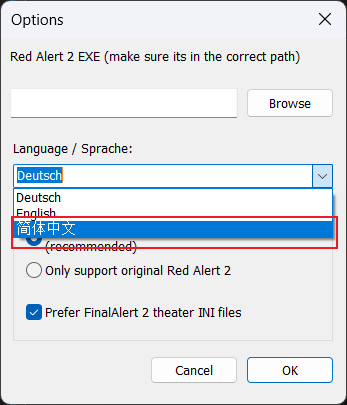
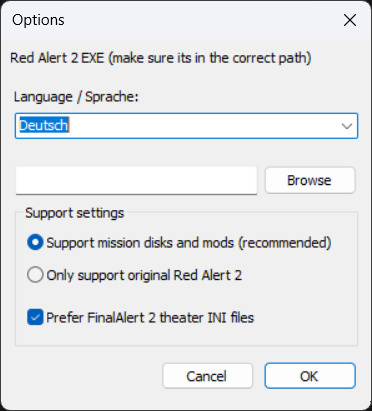
docs: update readme.md and "option" example img

diff --git a/README.md b/README.md
@@ -14,9 +14,10 @@
 ## 下载和安装
 1. 访问本仓库[Releases页面](https://github.com/revengenowstudio/YR_RN_Mission_Editor/releases/latest)即可获得最新发布版本
 2. 确保已经安装[VC++14 运行时库](https://learn.microsoft.com/zh-cn/cpp/windows/latest-supported-vc-redist?view=msvc-170#latest-supported-redistributable-version)
-3. 解压从Release下载的zip压缩包，运行`FinalRevenge.exe`，首次运行需要指定游戏本体或者Mod资源文件夹的位置，运行程序后，在弹出的`基本选项`窗口中的`Language`选择`简体中文`，再点击`Red Alert 2 EXE`右侧的按钮，选择`ra2.mix`即可设置默认资源路径
+3. 解压从Release下载的zip压缩包，运行`FinalRevenge.exe`，首次运行需要指定游戏本体或者Mod资源文件夹的位置，运行程序后，在弹出的`基本选项`窗口中的点击`Language`下拉列表，选择`简体中文`以切换语言，再点击右侧`Browse`按钮，选择游戏目录中的`ra2.mix`即可设置默认资源路径
 
   ![1763296772166](image/README/1763296772166.png)
+
 
 > [!NOTE]
 > 本编辑器的`FinalRevenge.ini`用户个性化配置文件位于 `%LOCALAPPDATA%/FinalRevenge/FinalRevenge.ini` 可以通过文件资源管理器访问找到。
